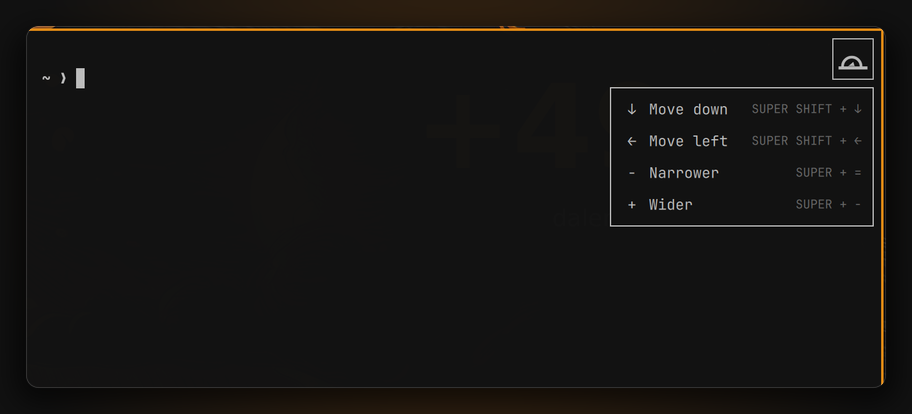
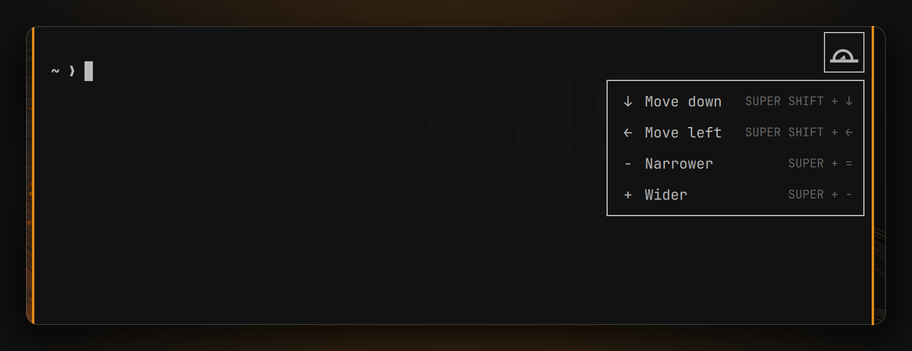
Trim the demo to the window's top band and caption the preview
The captures carried a lot of empty terminal, so the frames are now cropped to
the band holding the grip, the pad and the moving window edge — the same
registration as before, just less dead space. preview.png carries the same
caption as the pad frame so the marketplace thumbnail says what it shows, and
the stills are re-encoded to 8-bit because 16-bit tripled their size.

🤖 Generated with Codebuff

Changed region(s): [[0.0307, 0.057, 0.9825, 0.9402], [0.7061, 0.4558, 0.7982, 0.5128]]

diff --git a/docs/announcement.md b/docs/announcement.md
@@ -53,7 +53,7 @@ The listing goes through the community registry:
 
 - Repository: <https://github.com/evtriest/mouse-in-the-corner>
 - Category: `Desktop`
-- Tags: `hyprland`, `quickshell`, `system`
+- Tags: `Hyprland`, `Quickshell`, `System` (the form takes at most three)
 - Preview: `preview.png` in the repository root
 
 ## Checklist before posting
